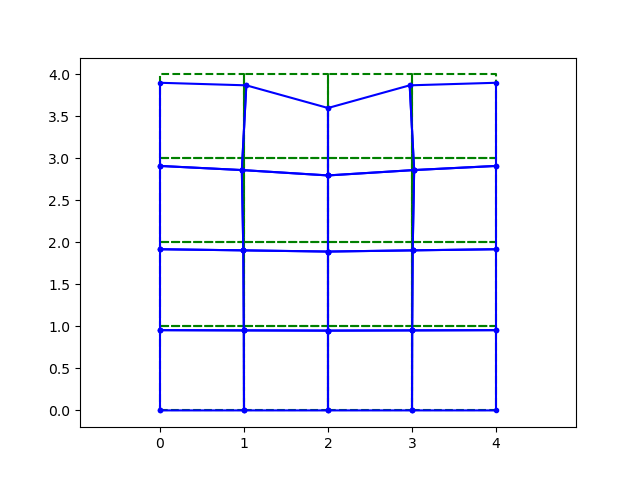
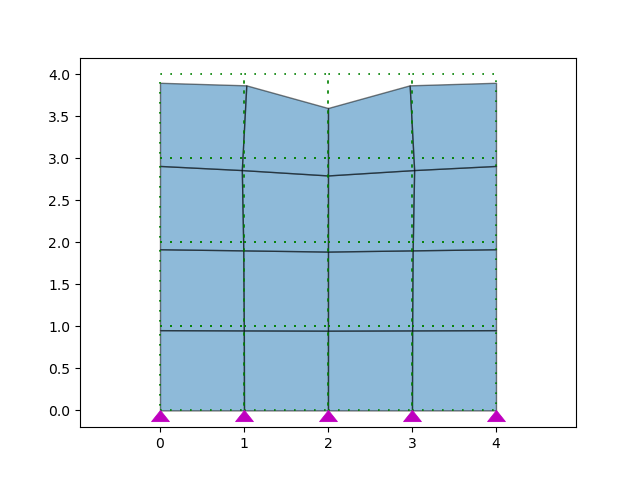
fix plot_defo

diff --git a/opsvis/defo.py b/opsvis/defo.py
@@ -59,7 +59,7 @@ def defo_scale(nep):
         max_crds = np.array([-np.inf, -np.inf, -np.inf])
         max_u = np.array([-np.inf, -np.inf, -np.inf])
         for node_tag in node_tags:
-            crds = ops.nodeCoord(node_tag)[0]
+            crds = ops.nodeCoord(node_tag)
             u = ops.nodeDisp(node_tag)
 
             min_crds[0] = min(min_crds[0], crds[0])
@@ -966,7 +966,9 @@ def plot_defo(sfac=False, nep=17, unDefoFlag=1, fmt_defo=fmt_defo,
     element ends.
     """
     ndim = ops.getNDM()[0]
-    sfac = defo_scale(nep)
+
+    if not sfac:
+        sfac = defo_scale(nep)
 
     if ndim == 2:
         ax = _plot_defo_mode_2d(0, sfac, nep, unDefoFlag, fmt_defo,
